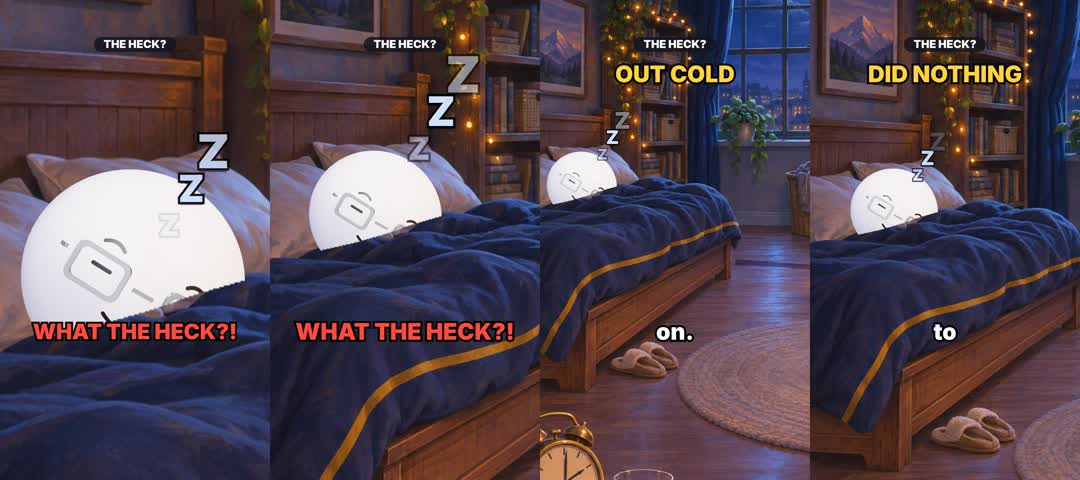
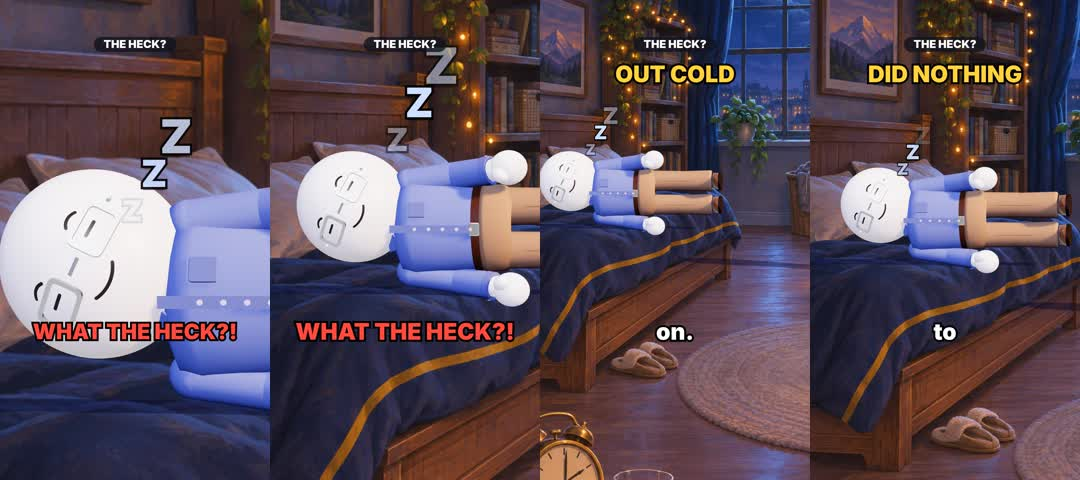
Body Heck ep1: Gary lies flat on the bed (whole body, normal size, eyes closed); Doug in the armchair
Claude-Session: https://claude.ai/code/session_01HD3jrJos1nuS6YgPi16YUP

diff --git a/videos/sleep-two-minutes/scene.js b/videos/sleep-two-minutes/scene.js
@@ -26,7 +26,7 @@
       B04: { img: 'B04_calm_lake_canoe.png', hz: .5, vx: .5, fov0: 55, camH: 1.5, light: 'night' },
       E: { img: ENDING, hz: .45, vx: .5, fov0: 55, camH: 2.0, light: L.sunset },
     },
-    props: { DUVET: 'B01_duvet.cut.png', DOG: 'P01_guard_dog_awake.png', DOGZ: 'P02_guard_dog_asleep.png', SHEEP: 'P03_sheep.png', PLANE: 'P04_navy_biplane_1943.png', H01: 'H01_helicopter.png' },
+    props: { DOG: 'P01_guard_dog_awake.png', DOGZ: 'P02_guard_dog_asleep.png', SHEEP: 'P03_sheep.png', PLANE: 'P04_navy_biplane_1943.png', H01: 'H01_helicopter.png' },
     cast: { doug: 'hoodie', gary: 'oxford', coach: { outfit: 'polo', holdR: 'clipboard' }, cadet: { outfit: 'oxford', hat: 'pilot' } },
     shots: [
       { at: 'scream', plate: 'B01', zoom: [5.0, 2.1], focus: [[.135, .37], [.18, .42]] },     // THE HOOK: Gary asleep in bed, face huge → crash-zoom out
@@ -70,8 +70,20 @@
       const HEADSET = new Set(); G.head.traverse(o => HEADSET.add(o));
       const bodyVis = on => { G.root.traverse(o => { if (o.isMesh) o.visible = on || HEADSET.has(o); }); if (G.blob) G.blob.visible = on; };
       bodyVis(true);
-      const garyAsleep = (fc = 'blink') => { G.face(fc); G.pose({ t, tilt: -.55, nod: .1 + .02 * Math.sin(t * 1.3), lean: 0 }); placeHead('gary', PILLOW, .9 - 2.1 * 1.6, .35, 2.1); bodyVis(false);
-        const p = K.img(236, 811); K.prop('DUVET', { x: p.x, y: p.y, w: 472 * s() }); };
+      // Gary lies FLAT on top of the bed (Brian: "his whole body flat, sized normal, no sheets, eyes closed"): his standing pose laid on its
+      // side, facing us, head on the pillow, feet toward the far end of the duvet. Solve position, scale and turn so head + feet land on those pixels.
+      const FEET = [430, 655];
+      const garyAsleep = (fc = 'blink') => { G.face(fc); G.pose({ t, tilt: -.45, nod: .05, armR: { raise: .05 }, armL: { raise: .05 } });
+        const tg = K.img(...PILLOW), tf = K.img(...FEET), y = .9;
+        let [x, z] = K.floorAt(PILLOW[0] + 150, Math.min(1500, PILLOW[1] + 220)), sc = 1.5, ry = 0;
+        const put = (x, z) => { K.place('gary', x, y, z, 0, sc); G.root.rotation.set(0, ry, PI / 2); G.root.updateMatrixWorld(true); };
+        for (let it = 0; it < 5; it++) {
+          for (let k = 0; k < 3; k++) { put(x, z); const a = K.screenOf(G.head); put(x + .05, z); const b = K.screenOf(G.head); put(x, z + .05); const c = K.screenOf(G.head);
+            const j11 = (b.x - a.x) / .05, j21 = (b.y - a.y) / .05, j12 = (c.x - a.x) / .05, j22 = (c.y - a.y) / .05, det = j11 * j22 - j12 * j21, ex = tg.x - a.x, ey = tg.y - a.y;
+            x += (j22 * ex - j12 * ey) / det; z += (-j21 * ex + j11 * ey) / det; }
+          put(x, z); const h = K.screenOf(G.head), f = K.screenOf(G.leg[1].ankle);
+          sc = Math.min(8, Math.max(.6, sc * Math.hypot(tf.x - tg.x, tf.y - tg.y) / Math.max(1, Math.hypot(f.x - h.x, f.y - h.y)))); }
+        put(x, z); G.blob.visible = false; };
       // Doug IN THE ARMCHAIR (seat ≈ .45 m): hips on the cushion, feet on the floor
       const dougInChair = () => seat('doug', CHAIR, -.47, -.6);
       const dsit = () => { K.sit(D, 'down'); for (const k of [-1, 1]) { D.leg[k].hip.rotation.set(-1.3, 0, 0); D.leg[k].knee.rotation.x = 1.3; } };

diff --git a/docs/lessons.md b/docs/lessons.md
@@ -61,6 +61,7 @@ script**, runs the scorecard on every script and shot plan, and adds to it after
 | Nov 24 | sleep-two-minutes | "Make sure visual hook is very strong" | frame 1 = the strange thing at 5× (sleeping Gary + giant Z's), crash-zoom out in 0.55 s, white flash + shake + sting on the scream, then HOLD a two-shot with the screamer fully in frame | hook check on stills: at 0.05 s the strange thing fills the frame; at 0.6 s the screamer is whole, big and mid-scream (`flashes` + `shakes` on scream+0.28) |
 | Nov 24 | sleep-two-minutes | "They are not on the bed. Or chair." | measured the painting on a pixel grid: hips placed over the seat (not the feet in front of it), root height = seat height − 0.92 (bed ≈ .71 m → −.21, armchair ≈ .45 m → −.47), thighs sloped on tall seats so feet touch the floor | seated cast: grid the painting, put the hips ON the seat, check the wide shot before the close-up |
 | Nov 24 | sleep-two-minutes | "Put Gary in the bed and the other one on the chair, that makes more sense" | the sleeper is IN the bed (head on the pillow, the painted duvet cut out with `tools/occluder.py` and drawn over him, body hidden), the one who can't sleep sits up in the chair | staging must match the story: whoever sleeps is in the bed; check "does this make sense?" on every set before building |
+| Nov 24 | sleep-two-minutes | "Make Gary lay flat on the bed… his whole body flat, sized normal… no sheets, eyes closed" | lying pose: the standing pose laid on its side (`rotation.set(0, ry, PI/2)`), head solved onto the pillow pixel and scaled so the feet reach the far end of the bed; no occluder | a sleeping character lies flat ON the bed, whole body visible, normal size, eyes closed |
 
 ## Results (fill in on the Sunday check)
 | Video | Posted | Views (7 days) | 3-s hold | Watched to end | Shares | Saves | What it teaches |
